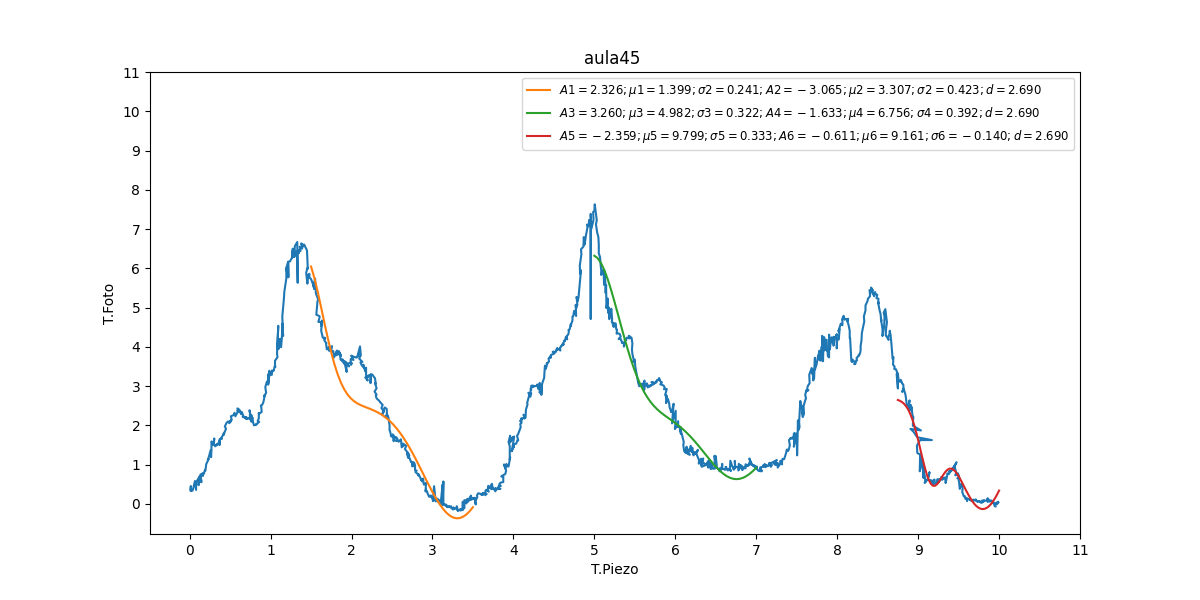
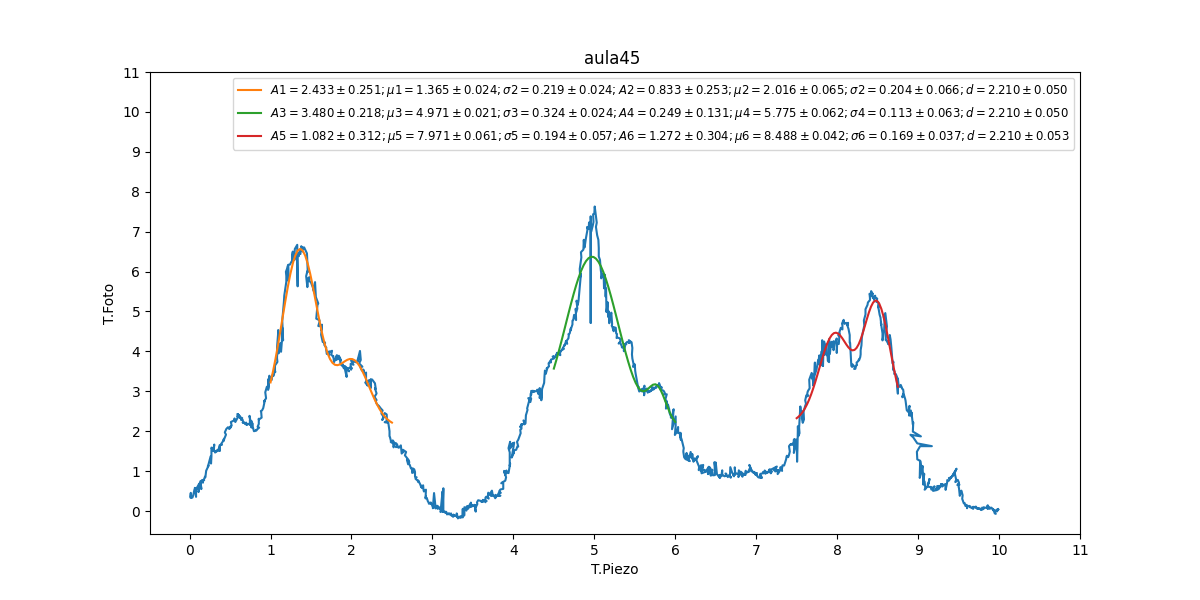
aula3_13

diff --git a/Analise/Fabry-Perot/analisefabry2.py b/Analise/Fabry-Perot/analisefabry2.py
@@ -864,7 +864,7 @@ T_Piezo313 = np.array(df313['T.Piezo'])
 T_Foto313 = np.array(df313['T.Foto'])
 
 valores_selecionados_1 = T_Piezo313[(T_Piezo313 >= 0.4) & (T_Piezo313 <= 0.9)]
-valores_selecionados_2 = T_Piezo313[(T_Piezo313 >= 6.7) & (T_Piezo313 <= 7.5)]
+valores_selecionados_2 = T_Piezo313[(T_Piezo313 >= 6.5) & (T_Piezo313 <= 7.5)]
 
 # Calcular a média e o desvio padrão dos dados selecionados
 mean313_1 = np.mean(valores_selecionados_1)
@@ -879,7 +879,7 @@ A1_error, mu1_error, sigma1_error, d1_error = np.sqrt(np.diag(covariance1))
 x_fit313_1 = np.linspace(0.3, 1)  # Intervalo para o ajuste
 
 p0313_2 = [T_Foto313.max(), mean313_2, std_dev313_2, 0]  # Estimativas iniciais para A, mu e sigma
-popt313_2, covariance2 = curve_fit(gauss, valores_selecionados_2, T_Foto313[(T_Piezo313 >= 6.7) & (T_Piezo313 <= 7.5)], p0=p0313_2)
+popt313_2, covariance2 = curve_fit(gauss, valores_selecionados_2, T_Foto313[(T_Piezo313 >= 6.5) & (T_Piezo313 <= 7.5)], p0=p0313_2)
 A2_error, mu2_error, sigma2_error, d2_error = np.sqrt(np.diag(covariance2))
 x_fit313_2 = np.linspace(6.5, 7.5)  # Intervalo para o ajuste
 
@@ -984,4 +984,6 @@ plt.yticks(y_values_to_display)
 
 plt.legend(fontsize='small')
 plt.savefig('aula45.png')
-plt.show() 
+plt.show()
+
+ 
